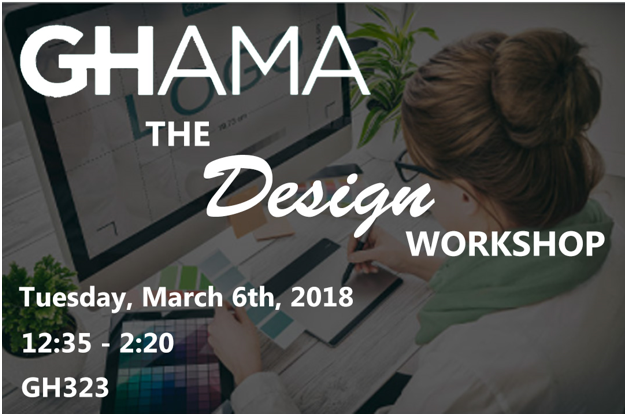
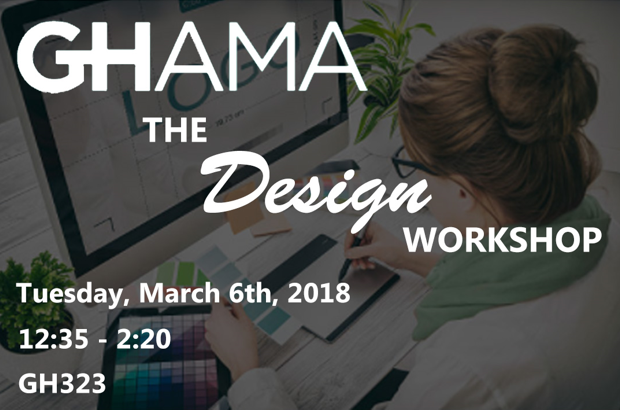
kjportfolio

diff --git a/index.html b/index.html
@@ -69,7 +69,7 @@
                                                                                                 max-width: 550px; 
                                                                                                 "><br>
                                     <img    src="images/banners/digital-design-workshop.png"    style="height: auto; 
-                                                                                                width: auto; 
+                                                                                                 
                                                                                                 max-width: 550px; 
                                                                                                 "><br>
                                 </div>
@@ -104,11 +104,11 @@
                                                                                                 max-width: 550px; 
                                                                                                 "><br>
                                     <img    src="images/logos/library-logo.png"    style="height: auto; 
-                                                                                                width: auto; 
+                                                                                                
                                                                                                 max-width: 550px; 
                                                                                                 "><br>
                                      <img    src="images/logos/langston-library-card.png"    style="height: auto; 
-                                                                                                width: auto; 
+                                                                                                 
                                                                                                 max-width: 550px; 
                                                                                                 "><br>
                                 </div><br><br>

diff --git a/assets/css/main.css b/assets/css/main.css
@@ -154,6 +154,10 @@ font-size: 30px;
 			html {
 				font-size: 12pt;
 			}
+            img {
+            width: 100%;
+            height: auto;
+}
 
 		}
 
@@ -162,18 +166,23 @@ font-size: 30px;
 			html {
 				font-size: 11pt;
 			}
+            img {
+             width: 100%;
+            height: auto;
+}
 
 		}
 
-		@media screen and (max-width: 360px) {
+		@media screen and (max-width: 480px) {
 
 			html {
 				font-size: 10pt;
 			}
-  img {
-   max-width: 200px; 
-   max-height: 200px; 
- }
+img {
+  width: 100%;
+    
+  height: auto;
+}
 		}
 
 	body, input, select, textarea {
